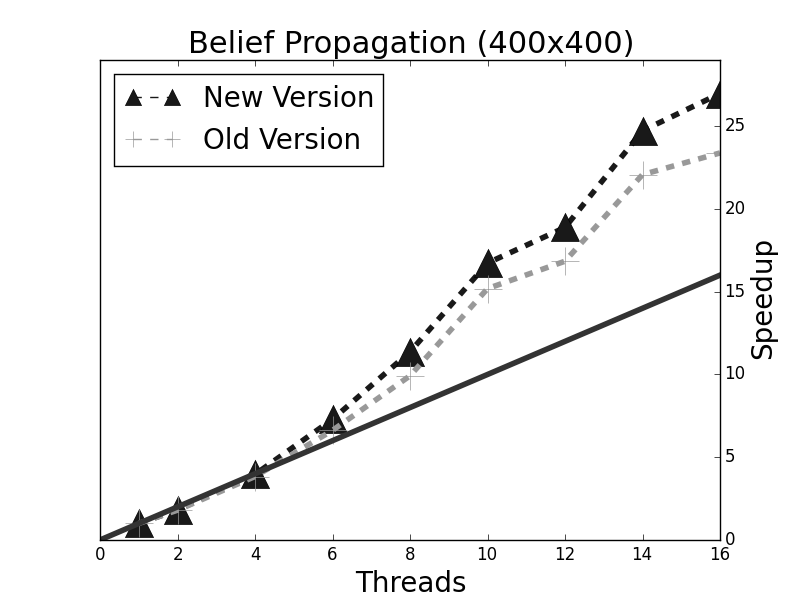
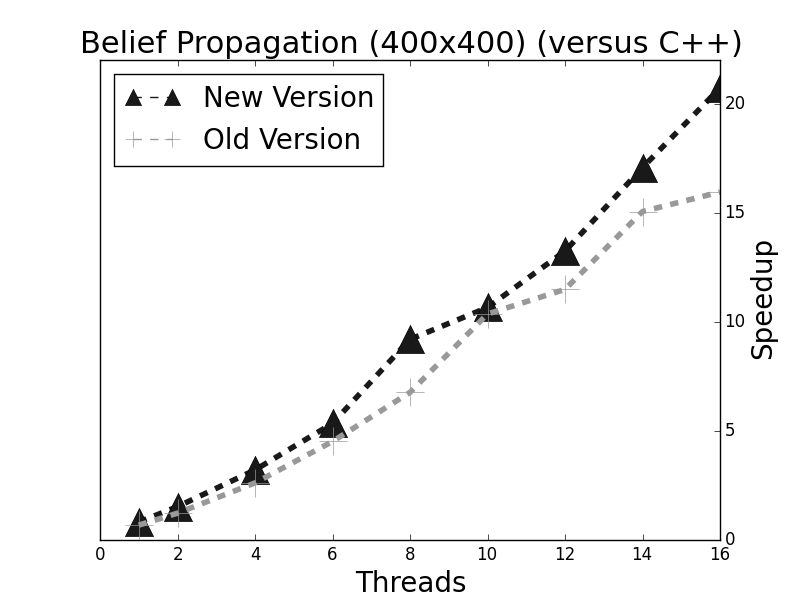
Update document and plots.

diff --git a/proposal_correction/doc.tex b/proposal_correction/doc.tex
@@ -248,19 +248,29 @@ use it by default.
 \begin{center}
   \subfloat[]{\includegraphics[width=0.3\textwidth]{figures/pagerank-search_engines}}
   \subfloat[]{\includegraphics[width=0.3\textwidth]{figures/pagerank-5000}}
-  \subfloat[]{\includegraphics[width=0.3\textwidth]{figures/8queens-13}}
 \end{center}
-\caption{New experimental results for PageRank and N Queens.}
+\caption{New experimental results for PageRank.}
+\label{fig:res1}
+\end{figure*}
+
+\begin{figure*}[h]
+\begin{center}
+  \subfloat[]{\includegraphics[width=0.3\textwidth]{figures/greedy-graph-coloring-search_engines}}
+  \subfloat[]{\includegraphics[width=0.3\textwidth]{figures/greedy-graph-coloring-2000}}
+\end{center}
+\caption{New experimental results for Greedy Graph Coloring. The baseline used
+   is Linear Meld with 1 thread.}
 \label{fig:res1}
 \end{figure*}
 
 \begin{figure*}[h]
 \begin{center}
   \subfloat[]{\includegraphics[width=0.3\textwidth]{figures/shortest-uspowergrid}}
-  \subfloat[]{\includegraphics[width=0.3\textwidth]{figures/greedy-graph-coloring-search_engines}}
-  \subfloat[]{\includegraphics[width=0.3\textwidth]{figures/greedy-graph-coloring-2000}}
+  \subfloat[]{\includegraphics[width=0.3\textwidth]{figures/8queens-13}}
 \end{center}
-\caption{New experimental results for Single Source Shortest Distance and Greedy Graph Coloring.}
+\caption{New experimental results for Single Source Shortest Distance and N
+   Queens. The baseline used is a hand-optimized sequential C++ version of each
+   program.}
 \label{fig:res2}
 \end{figure*}
 
@@ -270,8 +280,11 @@ use it by default.
 \begin{center}
   \subfloat[]{\includegraphics[width=0.3\textwidth]{figures/new-heat-transfer-80}}
   \subfloat[]{\includegraphics[width=0.3\textwidth]{figures/min-max-tictactoe}}
+  \subfloat[]{\includegraphics[width=0.3\textwidth]{figures/belief-propagation-400}}
 \end{center}
-\caption{New experimental results for Heat Transfer and MiniMax.}
+\caption{New experimental results for Heat Transfer, MiniMax and Belief
+   Propagation. The baseline used is a hand-optimized sequential C++ version of
+   each program.}
 \label{fig:res3}
 \end{figure*}
 
